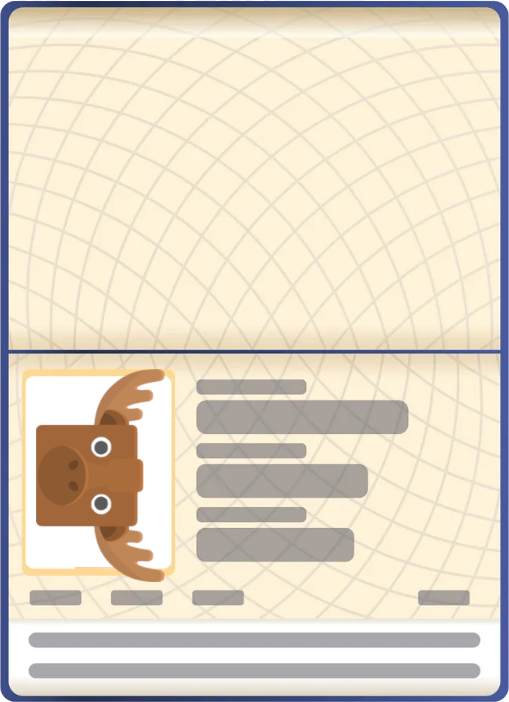
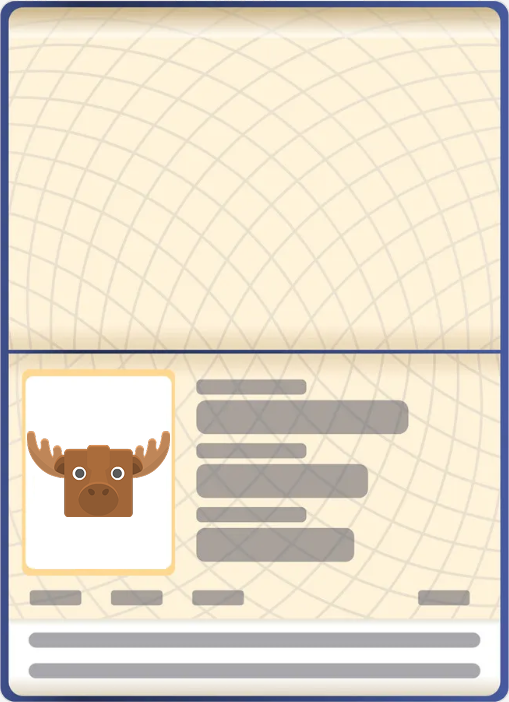
update 1
random generation for passport and character. valid passports added for each character.

Changed region(s): [[0.0589, 0.5085, 0.3536, 0.8376]]

diff --git a/src/Game.cpp b/src/Game.cpp
@@ -1,6 +1,7 @@
 
 #include "Game.h"
 #include <iostream>
+#include <random>
 
 Game::Game(sf::RenderWindow& game_window)
 	: window(game_window)
@@ -17,15 +18,52 @@ bool Game::init()
 {
 	character = new sf::Sprite;
 	passport = new sf::Sprite;
-	using charVector = std::vector<std::unique_ptr<character>> character_ptrs;
-	using psprtVector = std::vector<std::unique_ptr<passport>> passport_ptrs;
-	//create array of strings for each animal. Go through each entry in there, and load in the image for it
-	string animalNames[9] = { "buffalo", "chicken", "elephant", "giraffe", "gorilla", "moose", "narwhal", "penguin", "walrus" }
-	for (int i = 0; i < animalNames.length(); i++) {
-		string fileName = "../Data/Images/Critter Crossing Customs/" + ""
-			//"\\nstu-nas01.uwe.ac.uk\users1$\d2-leland\Personal\GitHub\mgicpp-sfml-starter-template\Data\Images\Critter Crossing Customs\buffalo.png"
-			if (!character_texture.loadFromFile("../"))
+	bool isValid = false;
+	
+	std::random_device rd;  // a seed source for the random number engine
+	std::mt19937 gen(rd()); // mersenne_twister_engine seeded with rd()
+	//std::uniform_int_distribution<> distrib(0, 8);
+	std::uniform_int_distribution<int> distribution_1_8(1,8);
+	int randEntry = distribution_1_8(rd);
+
+
+	std::uniform_int_distribution<int> distribution_0_1(0, 1);
+
+	int torf = distribution_0_1(rd);
+	if (torf == 1) { isValid = true; } //create 50/50 chance of passport being valid
+
+
+	randEntry = 2; //delete later
+	std::vector<std::string> animalNames = { "buffalo", "chicken", "elephant", "giraffe", "gorilla", "moose", "narwhal", "penguin", "walrus" }; //load all animal names into vector
+
+	//load character texture
+	if (!character_texture.loadFromFile("../Data/Images/Critter Crossing Customs/" + animalNames[randEntry] + ".png")) {
+		std::cout << "character texture could not be loaded";
 	}
+	character->setTexture(character_texture);
+	character->setPosition(100, 100); //set scalable position later
+	
+	//load passport texture
+	if (isValid && !passport_texture.loadFromFile("../Data/Images/Critter Crossing Customs/" + animalNames[randEntry] + " passport.png")) {
+		//only elephant or penguin currently have existing passports
+		//"D:\Dana\mgicpp-sfml-starter-template\Data\Images\Critter Crossing Customs\elephant passport.png"
+		std::cout << "passport texture could not be loaded";
+	}
+	//add valid passports for each animal in file. 
+	//add boolean for isValidPassport, select randomly whether true or not, and create invalid passport folder
+
+	passport->setTexture(passport_texture);
+	passport->setPosition(500, 50); //set scalable position later
+	passport->setScale(.7,.7);
+
+
+
+	//load background texture
+	if (!background_texture.loadFromFile("../Data/WhackaMole Worksheet/background.png")) {
+		std::cout << "background texture could not be loaded";
+	}
+	background.setTexture(background_texture);
+
 	return true;
 }
 
@@ -36,7 +74,9 @@ void Game::update(float dt)
 
 void Game::render()
 {
-
+	window.draw(background);
+	window.draw(*character);
+	window.draw(*passport);
 }
 
 void Game::mouseClicked(sf::Event event)
@@ -49,7 +89,7 @@ void Game::mouseClicked(sf::Event event)
 
 void Game::keyPressed(sf::Event event)
 {
-
+	
 }
 
 

diff --git a/src/main.cpp b/src/main.cpp
@@ -1,0 +1,57 @@
+#include <iostream>
+#include <SFML/Graphics.hpp>
+#include "Game.h"
+
+
+int main()
+{
+    std::cout << "You should see a window that opens as well as this writing to console..."
+        << std::endl;
+
+    // create window and set up
+    sf::RenderWindow window(sf::VideoMode(1080, 720), "Platform game");
+    window.setFramerateLimit(60);
+
+    //initialise an instance of the game class
+    Game game(window);
+
+    //run the init function of the game class and check it all initialises ok
+    if (!game.init())
+    {
+        return 0;
+    }
+
+    // A Clock starts counting as soon as it's created
+    sf::Clock clock;
+
+    // Game loop: run the program as long as the window is open
+    while (window.isOpen())
+    {
+        // check all the window's events that were triggered since the last iteration of the loop
+        sf::Event event;
+
+        //calculate delta time
+        sf::Time time = clock.restart();
+        float dt = time.asSeconds();
+
+        //'process inputs' element of the game loop
+        while (window.pollEvent(event))
+        {
+            // "close requested" event: we close the window
+            if (event.type == sf::Event::Closed)
+                window.close();
+        }
+
+
+        //'update' element of the game loop
+        game.update(dt);
+
+        window.clear(sf::Color::Black);
+
+        //'render' element of the game loop
+        game.render();
+        window.display();
+    }
+
+    return 0;
+}

diff --git a/src/Game.h b/src/Game.h
@@ -22,6 +22,9 @@ class Game
   sf::Texture character_texture;
   sf::Texture passport_texture;
 
+  sf::Sprite background;
+  sf::Texture background_texture;
+
 };
 
 #endif // PLATFORMER_GAME_H
